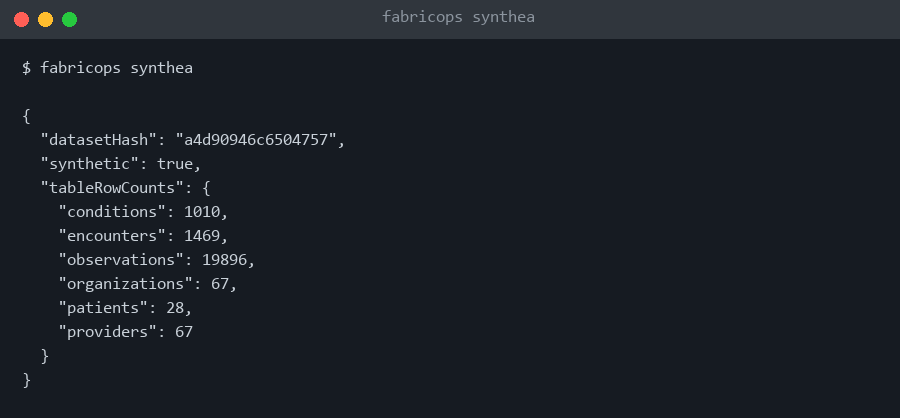
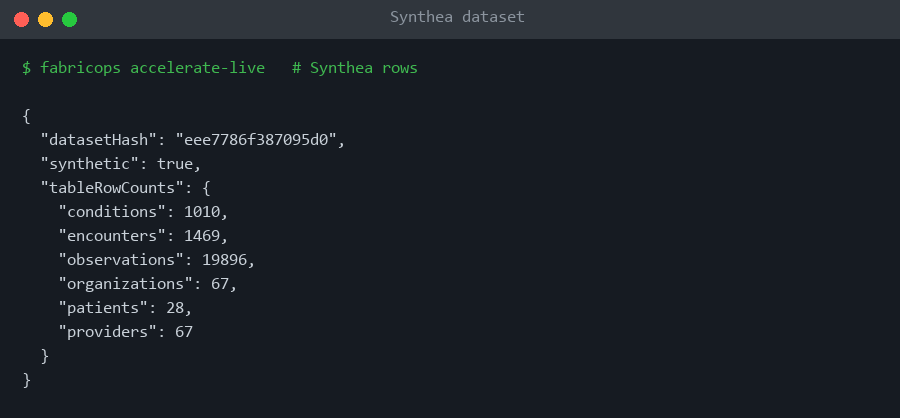
README: live-only demo with real captures; drop mock screenshots
Copilot-Session: 9b5a8cd7-6906-4984-b106-8cd755ccfdc0

Changed region(s): [[0.0311, 0.1555, 0.4667, 0.1866], [0.2178, 0.311, 0.3733, 0.3732], [0.4356, 0.0311, 0.5911, 0.0622]]

diff --git a/README.md b/README.md
@@ -21,29 +21,21 @@ FabricOps Copilot
 - **Least privilege, customer-owned credentials**: OIDC / `az login`, no secrets in the repo.
 - **Audit without sensitive data**: allowlisted evidence, hashed IDs, row counts only.
 
-## Screenshots (mock mode)
+## Live demo (real Fabric tenant, IDs shown only as hashes)
 
-Preview before change:
+Everything below was captured from commands run against a real Fabric capacity.
 
-![plan preview](docs/images/01-plan-preview.png)
+Preflight: credentials and capability checks:
 
-Idempotent reruns across all five pillars:
+![preflight](docs/images/03-live-preflight.png)
 
-![idempotent demo](docs/images/02-idempotent-demo.png)
+Provision: three workspaces (dev/test/prod) with capacity and Admin/Contributor/Viewer roles; reruns are no-ops:
 
-Optional administrator TUI (health and drift):
+![provision](docs/images/01-live-provision.png)
 
-![admin tui](docs/images/03-admin-tui.png)
+Deploy: Lakehouse, Notebook and DataPipeline promoted to every environment:
 
-Synthea synthetic dataset (aggregate counts and hash only):
-
-![synthea](docs/images/04-synthea-dataset.png)
-
-Tests:
-
-![tests](docs/images/06-tests.png)
-
-## Screenshots (live Fabric sandbox, IDs hashed)
+![deploy](docs/images/02-live-deploy.png)
 
 Operate: captured output of a live run (Job Scheduler APIs):
 
@@ -57,28 +49,23 @@ Accelerate: captured output of a live rerun (RTI items plus Synthea data in the 
 
 ![live accelerate](docs/images/08-live-accelerate.png)
 
-## Quick start (mock mode, no tenant needed)
+Synthea synthetic dataset (aggregate counts only):
+
+![synthea](docs/images/04-synthea-dataset.png)
+
+## Quick start (your own Fabric tenant)
 
 ```powershell
 python -m venv .venv; .\.venv\Scripts\Activate.ps1
-pip install -e ".[dev]"
-python -m fabricops.cli capabilities
-python -m fabricops.cli plan --config config/examples/synthetic-healthcare/project.yml --use-case all
-python -m fabricops.cli demo --config config/examples/synthetic-healthcare/project.yml
-python -m fabricops.cli tui --config config/examples/synthetic-healthcare/project.yml
+pip install -e ".[live]"
+az login
 ```
 
-`demo` runs Synthea first (needs Java 11+; use `--skip-synthea` to opt out), then each use case twice to prove idempotency.
+1. Copy `config/examples/synthetic-healthcare/live.env.example` to `live.local.env` (git-ignored) and fill in your tenant, app, capacity and group IDs.
+2. Run `fabricops preflight`, then `provision-live`, `deploy-live`, `accelerate-live`, `operate-live` and `govern-live`. All preview or read only by default; mutation needs `--apply` (or `--run` for jobs) **and** `FABRICOPS_ALLOW_LIVE_MUTATION=1`.
+3. GitHub Actions: workflows run on `workflow_dispatch` with OIDC. Set `AZURE_CLIENT_ID`, `AZURE_TENANT_ID` and the `FABRIC_*` repo variables; prod needs environment approval. The tenant must allow service principals to call Fabric APIs.
 
-## Live mode (your own Fabric tenant)
-
-1. `pip install -e ".[live]"` and sign in with `az login` (or use GitHub OIDC).
-2. Copy `config/examples/synthetic-healthcare/live.env.example` to `live.local.env` (git-ignored) and fill in your tenant, app, capacity and group IDs.
-3. Run `preflight`, then `provision-live`, `deploy-live`, `accelerate-live`, `operate-live` and `govern-live`. All preview or read only by default; mutation needs `--apply` (or `--run` for jobs) **and** `FABRICOPS_ALLOW_LIVE_MUTATION=1`.
-4. GitHub Actions: workflows run on `workflow_dispatch` with OIDC. Set `AZURE_CLIENT_ID`, `AZURE_TENANT_ID` and the `FABRIC_*` repo variables; prod needs environment approval. The tenant must allow service principals to call Fabric APIs.
-
-Never commit tenant, subscription, group or capacity IDs. `.gitignore` excludes `*.local.env`, `.env*`, `artifacts/` and `.fabricops/`.
-
+Synthea needs Java 11+. Never commit tenant, subscription, group or capacity IDs; `.gitignore` excludes `*.local.env`, `.env*`, `artifacts/` and `.fabricops/`.
 ## Fabric MCP
 
 `.vscode/mcp.json` and `.mcp.json` register the [Fabric MCP server](docs/fabric-mcp.md), used by Copilot for API docs and item-definition contracts.
@@ -89,4 +76,4 @@ Never commit tenant, subscription, group or capacity IDs. `.gitignore` excludes 
 
 ## Status
 
-All five pillars run in mock mode and live against a Fabric sandbox. Fabric IQ, ontology and agent templates remain capability probes (preview APIs). The GitHub Actions workflows are untested end to end.
+All five pillars run live against a Fabric sandbox. Fabric IQ, ontology and agent templates remain capability probes (preview APIs). The GitHub Actions workflows are untested end to end.
